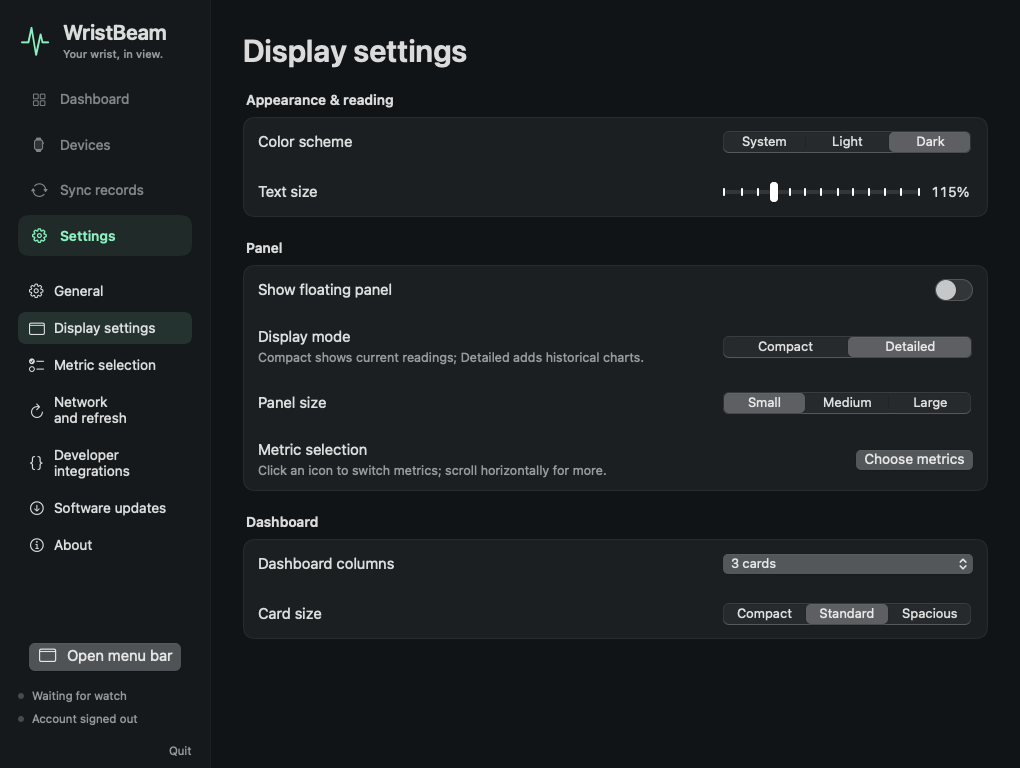
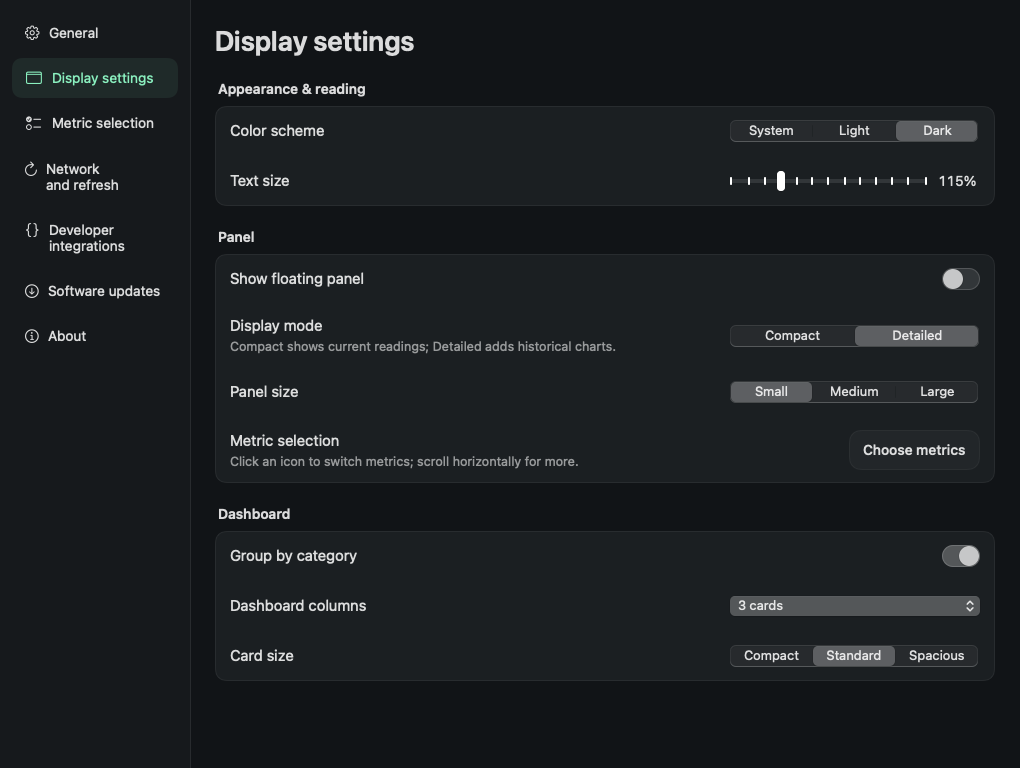
chore: prepare WristBeam 0.3.10 (#21)
* chore: prepare WristBeam 0.3.10

* docs: refresh multilingual guides and native product screenshots

---------

diff --git a/Sources/GarminBar/App/SoftwareUpdater.swift b/Sources/GarminBar/App/SoftwareUpdater.swift
@@ -24,7 +24,7 @@ final class PulseUpdater: ObservableObject {
             AppPreferences.shared.set(repository, forKey: "updateRepository")
         }
     }
-    var currentVersion: String { Bundle.main.object(forInfoDictionaryKey: "CFBundleShortVersionString") as? String ?? "0.3.9" }
+    var currentVersion: String { Bundle.main.object(forInfoDictionaryKey: "CFBundleShortVersionString") as? String ?? "0.3.10" }
     var parsedRepository: PulseRepository? { PulseRepository(repository) }
     // Local package tests exercise the production validation/install path. This
     // entry point is absent from Release builds and never changes the server.

diff --git a/docs/SHOWCASE.md b/docs/SHOWCASE.md
@@ -1,46 +1,37 @@
 # Product showcase
 
-Native views and showcase composites are generated in GitHub Actions. The macOS 15 Apple Silicon job uploads `showcase-macos15`; download that artifact to refresh the README images without a local build. The renderer covers 52 combinations, including device status, HRV and the menu popover. Only synthetic preview data enters these artifacts.
+The five READMEs use native WristBeam views with isolated synthetic data. Chinese documentation uses Chinese captures and captions; English, Japanese, Korean and Russian documentation use the English image set. No personal accounts, health records, device identifiers or activity locations enter these assets.
 
-The README uses actual native app views with isolated **WristBeam Demo** data. Its values are simulated, its preferences/storage are separate, and Bluetooth, saved account recovery and uploading are disabled. No user's health data, account identifiers, device IDs or activity locations appear in these assets.
+## 0.3.10 documentation refresh
 
-| Image | What it shows |
-| --- | --- |
-| [Hero](images/showcase-hero.png) | Native dashboard, status item and expanded menu panel |
-| [Menu](images/showcase-menu.png) | Actual icon-only menu readings and the click-to-open panel |
-| [Themes](images/showcase-themes.png) | Native light and dark dashboard captures |
-| [Settings](images/showcase-settings.png) | Grouped three-surface selection matrix |
+The current hero, menu, themes, settings and floating-panel images come from the UI changes in [PR #20](https://github.com/kongdayan/wristbeam/pull/20), application commit `2d2296fdd2960324b0acd4847613f7c3b722a4f3`. They were rendered in [GitHub Actions run 39894382413](https://github.com/kongdayan/wristbeam/actions/runs/39894382413) and copied unchanged from its `showcase-macos15` artifact. The release preparation updates version metadata separately; these images show the UI shipping in 0.3.10.
 
-The Chinese README uses a separate Chinese set: [hero](images/showcase-hero-zh.png), [menu](images/showcase-menu-zh.png), [themes](images/showcase-themes-zh.png), and [settings](images/showcase-settings-zh.png). Both captions and captured app views are Chinese; the English set remains English. Chinese native captures are [dashboard](images/raw-dashboard-zh.png), [light](images/dashboard-light-zh.png), [dark](images/dashboard-dark-zh.png), [settings](images/display-settings-zh.png), and [menu panel](images/raw-menu-popup-zh.png).
+| Image | What it shows | Chinese version |
+| --- | --- | --- |
+| [Hero](images/showcase-hero.png) | Dashboard, icon-only status item and menu panel | [中文](images/showcase-hero-zh.png) |
+| [Menu](images/showcase-menu.png) | Menu readings and click-to-open panel | [中文](images/showcase-menu-zh.png) |
+| [Themes](images/showcase-themes.png) | Light and dark dashboard | [中文](images/showcase-themes-zh.png) |
+| [Settings](images/showcase-settings.png) | Separate preferences window, appearance, text size and layout | [中文](images/showcase-settings-zh.png) |
+| [Floating panels](images/showcase-floating.png) | Compact readings and Detailed trends | [中文](images/showcase-floating-zh.png) |
 
-## Build 10 refresh
+Raw dashboard, menu, floating and display-settings captures in `docs/images/` are refreshed from the same artifact. The icon-only [status item](images/raw-menu-bar.png) remains the earlier computer-use capture; that component was not changed by this UI update. The [sharing examples](images/share-cards-en.png) and [Chinese sharing example](images/share-cards-zh.png) retain their existing synthetic exports.
 
-The dashboard, themes, settings and new [Compact / Detailed floating showcase](images/showcase-floating.png) now use build 10 production views. The [Chinese version](images/showcase-floating-zh.png) includes Chinese captions and controls; all other README languages use English assets.
+## How the images are made
 
-`scripts/test-interface-render.py` constructs the actual `AppModel` in isolated preview mode and renders the real SwiftUI views through `NSHostingView.cacheDisplay`, including native controls. It exercises 52 combinations of language, theme, floating density and font size. These are programmatic native-view renders, **not evidence of click testing**. Live computer-use verification remains separately recorded in VERIFICATION.md.
+`scripts/test-interface-render.py` constructs the real `AppModel` in isolated preview mode, disables Bluetooth/account recovery/uploads and asserts zero cloud requests. It renders production SwiftUI views through `NSHostingView.cacheDisplay`. The current suite exports 152 PNGs covering Chinese/English, light/dark, Compact/Detailed panels, device battery, HRV, activities, expanded sections, narrow windows and 100%/160% text samples.
 
-`scripts/render-floating-showcase.swift` places those unchanged PNGs on an original gradient with frames and shadows. It refreshes the hero, menu, themes, settings and floating composites. The menu status item capture remains from the earlier computer-use session. The expanded menu uses the current production view rendered in Actions, including the device battery badge. The HTML viewer below is retained for interactive capture, but the latest composites are generated by the Swift renderer.
+The same CI harness separately exercises native mouse events for disclosure headers and metric selection, plus list/detail scroll restoration. A screenshot alone does not prove interaction behavior. Local installed-client computer-use checks remain subject to tool availability; see [verification scope](../VERIFICATION.md).
 
-The settings layout and Compact / Detailed presentation were inspired by [Pulse](https://github.com/qunqin24/Pulse); WristBeam's implementation, icons and artwork are independently authored. No Pulse source or artwork is bundled.
+`scripts/render-floating-showcase.swift` arranges unchanged native captures on an original gradient, adding frames and shadows. CI renders the composites; maintainers download the artifact instead of building local demo apps. The earlier [English](showcase/index.html) and [Chinese](showcase/index.zh-CN.html) HTML layouts remain available as historical artwork sources, but the current README composites use the Swift renderer.
 
-## Capture method
+The settings layout and Compact/Detailed presentation were inspired by [Pulse](https://github.com/qunqin24/Pulse). WristBeam's implementation, icons and artwork are independently authored; no Pulse source or artwork is bundled. The human-battery and footprint glyphs are drawn in [MetricIcon.swift](../Sources/GarminBar/UI/MetricIcon.swift); other glyphs use macOS SF Symbols. Body Battery keeps its full name in panels and accessibility descriptions.
 
-Computer-use opens and operates the native demo app. The native computer-use screenshot service returned oversized Retina extents on this Mac. To keep the real UI intact, computer-use invokes the Demo's Save demo screenshot command (⌘S), which exports only its own actual AppKit hosting view at 3× resolution. Native view captures are [raw-dashboard-en.png](images/raw-dashboard-en.png), [dashboard-light.png](images/dashboard-light.png), [dashboard-dark.png](images/dashboard-dark.png) and [display-settings.png](images/display-settings.png).
+## Refresh checklist
 
-Clicking **Open menu bar** opens the real `NSPopover`. Only in Demo mode, the app exports its actual `NSStatusItem` button and hosting view at 3× resolution using AppKit view rendering: [raw-menu-bar.png](images/raw-menu-bar.png), [raw-menu-popup.png](images/raw-menu-popup.png). This avoids global desktop capture and the focus change that closes transient popovers in the computer-use tool. These are actual native components, not generated interface illustrations.
+1. Run CI for the intended UI revision; download `showcase-macos15` and `native-interface-macos15`.
+2. Inspect both language sets, including long pages, large text, menu and floating panels.
+3. Copy the intended PNGs into `docs/images/`; preserve captures without painting over controls or values.
+4. Update the source commit/run above and all five README descriptions; check image links and language selection.
+5. Keep the app icon, original status-item capture and unchanged sharing exports unless those components need a new capture.
 
-The human-battery and footprint glyphs are original code-drawn vectors in [MetricIcon.swift](../Sources/GarminBar/UI/MetricIcon.swift). Other glyphs use macOS SF Symbols. Body Battery keeps its full name in panels and accessibility descriptions; no BB abbreviation is used.
-
-[HTML/CSS artwork](showcase/index.html) places the unmodified native PNGs on a background with rounded frames and shadows. [The local WKWebView viewer](../scripts/showcase-viewer.swift) renders four scenes; keys 1–4 switch scenes. Computer-use operates the resulting viewer and its “Save showcase image” command. The viewer exports its actual WKWebView rectangle through WebKit snapshot rendering, avoiding an incorrect Retina window extent in the native computer-use screenshot service. No AI-generated controls, values or fake product UI are added. Rounded shells and shadows are decorative layout around unchanged captures.
-
-[The Chinese layout](showcase/index.zh-CN.html) uses the same 1280 × 860 canvas. In the viewer, ⌘Z selects Chinese and ⌘E selects English; ⌘S exports the selected scene with a language-specific filename. Native display scale determines PNG pixel dimensions; the Chinese set was captured at 2560 × 1720. The first-use capture comes from a separately stored onboarding Demo with Bluetooth, account restoration and uploading disabled.
-
-## Background brief
-
-The original background brief used the former working name Garmin Pulse; the name is updated here for readability. No brand or product text is rendered into the backdrop.
-
-Only [the abstract backdrop](images/showcase-background.png) was generated with the built-in image generation tool. It was not used to edit the app screenshots.
-
-> Use case: ads-marketing. Background plate for premium independent macOS WristBeam product showcase. Generate only abstract backdrop, no device/interface/text/logos. Wide 16:9, quiet pearl/off-white center, subtle translucent mint-green and warm amber outer halos, frosted glass and very subtle film grain, restrained light, clean negative space for real screenshots. Avoid busy patterns, diagrams, simulated UI, hard borders, stock photos, neon and watermarks.
-
-The background is reused consistently across four native HTML/CSS scenes. The [app icon](images/app-icon.png) comes from the project's own vector drawing script. Project-authored artwork follows [the MIT license](../LICENSE); Garmin and platform marks remain their owners' marks.
+Only the historical [abstract backdrop](images/showcase-background.png) was made with image generation; product screenshots were not generated or retouched. The [app icon](images/app-icon.png) comes from the project's own vector drawing script. Project-authored artwork follows the [MIT license](../LICENSE).

diff --git a/README.ru.md b/README.ru.md
@@ -21,6 +21,7 @@
 - **Дайте телефону выходной.** Передавайте файлы тренировок и здоровья с поддерживаемых часов Garmin через Mac в Garmin Connect China или Global.
 - **Ваш заряд — в строке меню.** Пульс, Body Battery, стресс, шаги и другие показатели доступны в строке меню, плавающей панели и на графиках за день.
 - **Пусть ИИ узнает, как вы себя чувствуете.** Подключите синхронизированные показатели к ИИ-ассистенту через MCP и спросите: «Как я спал прошлой ночью?» Для собственных инструментов есть HTTP/HTTPS API, Python SDK и вебхуки.
+- **Меняйте циферблат с Mac.** Ищите циферблаты Connect IQ по имени или ключевому слову, сохраняйте официальные пакеты и устанавливайте их по Bluetooth. Редактируйте поддерживаемые настройки с повторным чтением после сохранения.
 
 Ваш ИИ уже считает токены. Теперь он может поинтересоваться и вашим запасом сил.
 
@@ -29,6 +30,8 @@
 ![WristBeam](docs/images/showcase-hero.png)
 
 [Скачать](https://github.com/kongdayan/wristbeam/releases/latest) · [Ошибки и отчёты об устройствах](https://github.com/kongdayan/wristbeam/issues) · [Участие](CONTRIBUTING.md) · [Изменения](CHANGELOG.md)
+
+**Новое в 0.3.10:** более удобные кнопки, раскрытие разделов нажатием на всю строку, улучшенная компоновка с крупным текстом и страницы без видимых полос прокрутки. [Изменения](CHANGELOG.md#0310--2026-10-23).
 
 ## Интерфейс
 
@@ -44,6 +47,9 @@
 
 ## Возможности
 
+- **Настройки в отдельном окне.** Внешний вид, выбор показателей, обновление данных, интеграции и обновления приложения собраны по разделам. Заголовки реагируют на нажатие по всей строке; обычная прокрутка работает без видимых полос.
+- **Облако по желанию.** Получайте данные часов без аккаунта и отключайте все обращения к облаку Garmin. Экспортируйте локальные FIT＋CSV или загрузите файлы в облако позже. [Локальный режим](docs/SETUP.md).
+- **Тренировки для вас и вашего AI.** Открывайте статистику и графики из списка занятий, экспортируйте JSON／TCX／GPX／исходные файлы и запрашивайте сохранённые тренировки через MCP. Доступно обновление сводок по расписанию. [API](docs/developer/API.md#activity-library).
 - Компактные объёмные карточки с временем обновления рядом с заголовком. Настройка сетки и основных показателей в одной панели; вся панель, выбранные карточки или одно значение экспортируются в светлом или тёмном оформлении для копирования, сохранения и системного обмена.
 - Независимый выбор показателей для строки меню, панели и дашборда; группы, поиск, перетаскивание, размер текста и расположение.
 - Суточные кривые, интервальные столбцы, выбор даты и времени, значения под курсором и исходные записи. Пропуски остаются пустыми.
@@ -77,6 +83,7 @@
 | Батарея часов | Garmin Bluetooth | Значок и процент заряда рядом с состоянием устройства; уведомления и периодическое обновление |
 | Калории, этажи, минуты интенсивности | Поля часов／облака | Итоги дня, некоторые интервалы |
 | Пульс в покое, длительность сна, сводки восстановления | Суточная облачная сводка | Итоги и связанные графики |
+| Погода на часах | Open-Meteo или облачный аккаунт устройства | Текущая погода, почасовой и дневной прогноз передаются на часы. [Настройка](docs/developer/WEATHER.md) |
 | Солнечная интенсивность | Достоверные поминутные записи облака | Кривая от 0 до 24 часов |
 | Длительность освещения／солнечной зарядки | Оценка по достоверным минутам | Явно обозначенная оценка |
 | FIT активности и здоровья | Исходные файлы часов | Хранение на Mac, отправка в облако |
@@ -90,6 +97,8 @@
 | Apple Silicon | [arm64](https://github.com/kongdayan/wristbeam/releases/latest/download/WristBeam-macOS-arm64.zip) |
 | Intel | [x86_64](https://github.com/kongdayan/wristbeam/releases/latest/download/WristBeam-macOS-x86_64.zip) |
 | Обе архитектуры | [Universal](https://github.com/kongdayan/wristbeam/releases/latest/download/WristBeam-macOS-universal.zip) |
+
+Если приложение уже установлено: **Settings → Software updates → Check for updates**. Облачный аккаунт необязателен; для локального использования вход не нужен.
 
 Нужна macOS 13+. Распакуйте приложение и перенесите в доступную для записи папку Applications. В разделе «Устройства → Подключение» подготовьте часы с отключённой трансляцией пульса, затем нажмите кнопку подключения и разрешите Bluetooth. Выберите China／Global в аккаунте устройства, войдите на официальной странице Garmin и выберите ручную или автоматическую загрузку в истории синхронизации. Автоподключение при запуске выключено по умолчанию; его можно включить после сопряжения.
 

diff --git a/docs/SETUP.md b/docs/SETUP.md
@@ -5,9 +5,9 @@
 1. 打开应用，进入 **设备 → 连接**。打开软件和浏览设备页都不会申请蓝牙或扫描手表。
 2. 首次配对：手表长按 MENU → 手机 → 配对手机，关闭心率广播；手机占用连接时，暂时关闭手机蓝牙。点击 **允许蓝牙并查找手表**，在 macOS 提示中允许访问，再选择手表、核对配对码。已保存的手表可直接点击 **连接已配对手表**，无需每次忘记或重新配对。
 3. 允许蓝牙后，分别检查蓝牙连接、佳明数据通道、实时读数和文件通道。单独显示“已连接”不能证明原始文件同步已经就绪。没有数据时展开 **连接不上 / 没有数据**。
-4. 到 **设备账号** 选择手表绑定的中国或国际账户区域，在佳明官方页面登录。同一区域、同一账户才能核对文件归属；关联设备应与你的手表一致。
+4. 云账号可选。仅本地使用无需登录；需要云端记录或上传时，到 **设备 → 设备账号** 开启云同步，选择中国或国际区域，再在佳明官方页面登录。账户应与你的手表绑定账户一致。
 5. 到 **同步记录** 选择手动或自动上传。实时读数留在本机，云端接收手表生成的原始运动与健康 FIT。新用户默认手动同步；旧版已保存的选择以及已配对用户原先的自动同步默认值保留。
-6. 在 **显示设置** 分别选健康看板、浮窗和菜单栏的指标，调整字体、日夜主题和刷新。新用户默认不弹出空浮窗，按需开启。
+6. 打开独立 **设置** 窗口：在 **显示设置** 调整字体、主题和布局，在 **指标选择** 分别配置看板、浮窗和菜单栏，在 **网络与刷新** 调整刷新频率。新用户默认不弹出空浮窗，按需开启。折叠区的标题整行都可点击；长页面隐藏滚动条，仍支持正常滚动。
 
 **拒绝蓝牙**：在系统设置 → 隐私与安全性 → 蓝牙允许 WristBeam，再回到连接页。受到系统策略限制时需由设备管理员处理；设备账号与 FIT 导入仍可使用。临时签名的新构建可能需要重新允许访问，应用只在主动连接时请求。
 
@@ -33,7 +33,7 @@ In **Sync records**, **Automatically receive watch files** downloads original FI
 
 Cloud backfill uses original watch-generated FIT files, not synthesized FIT made from live readings. CSV is for personal use and analysis; it cannot recreate Garmin's historical cloud-only records. Folder monitoring applies only to the selected directory and can be stopped here.
 
-Connecting at launch is a separate opt-in and requires previously granted access plus a saved watch. Reconnection restores only a connection you started; manual disconnect stops retries. Closing the window keeps the menu bar app running, while quitting or Mac sleep pauses immediate syncing. Configure the floating panel, display metrics, type size, themes and refresh in **Display settings**.
+Connecting at launch is a separate opt-in and requires previously granted access plus a saved watch. Reconnection restores only a connection you started; manual disconnect stops retries. Closing the window keeps the menu bar app running, while quitting or Mac sleep pauses immediate syncing. Open the separate **Settings** window: use **Display settings** for panels, text size, themes and layout; **Metric selection** for dashboard/panel/menu metrics; and **Network and refresh** for refresh intervals. Click anywhere on a section header to expand it. Long pages scroll normally with their indicators hidden.
 
 If Bluetooth is denied, enable WristBeam in System Settings → Privacy & Security → Bluetooth and retry. A system restriction needs the administrator's help. An ad hoc build may need renewed system authorization after an update. Updates ask for confirmation before download and wait for active transfers to finish.
 

diff --git a/README.md b/README.md
@@ -31,6 +31,8 @@ Your AI can already count tokens. Now it can ask how *you're* doing.
 
 [Download](https://github.com/kongdayan/wristbeam/releases/latest) · [Issues & device reports](https://github.com/kongdayan/wristbeam/issues) · [Contribute](CONTRIBUTING.md) · [Changelog](CHANGELOG.md)
 
+**New in 0.3.10:** larger click targets, full-row expandable sections, better large-text layouts and clean, scrollbar-free pages. [Release notes](CHANGELOG.md#0310--2026-10-23).
+
 ## A closer look
 
 ![Menu bar and click-to-open panel](docs/images/showcase-menu.png)
@@ -45,6 +47,7 @@ Real app UI with isolated demo data. [Original captures and artwork notes](docs/
 
 ## Features
 
+- **Settings that stay out of the way.** A separate preferences window groups appearance, metric selection, refresh, developer integrations and updates. Click an entire section header to expand it; scroll normally without visible scrollbars.
 - **Keep it on your Mac.** Watch data works without a cloud account. Pause all Garmin cloud access, keep local files, then export FIT + CSV or upload later. [Local mode](docs/SETUP.md).
 - **Let your AI remember your workouts.** Browse the Activities sidebar, open a workout to load its statistics and charts, export JSON / TCX / GPX / original files, and query cached workouts over MCP. Optional scheduled summary refresh. [Activity API](docs/developer/API.md#activity-library).
 - Compact dimensional cards with timestamps beside the title. Customize layout and essentials in one panel; share the dashboard, selected cards or a single value as a framed image in light or dark, with copy, save and native sharing.
@@ -96,6 +99,8 @@ The catalog has **60 health metrics and one device-status field**. Only metrics 
 | Apple Silicon | [arm64](https://github.com/kongdayan/wristbeam/releases/latest/download/WristBeam-macOS-arm64.zip) |
 | Intel | [x86_64](https://github.com/kongdayan/wristbeam/releases/latest/download/WristBeam-macOS-x86_64.zip) |
 | Either architecture | [Universal](https://github.com/kongdayan/wristbeam/releases/latest/download/WristBeam-macOS-universal.zip) |
+
+Existing users: **Settings → Software updates → Check for updates**. Cloud login is optional; connect an account only when you want Garmin cloud access.
 
 Requires macOS 13+. Extract and move the app to a writable Applications folder. Open Devices → Connection, prepare the watch with heart-rate broadcast off, then click a connection button to allow Bluetooth. Choose China/Global in Device account and sign in on Garmin's official page; choose manual or automatic uploads in Sync records. Connecting at launch is off by default and can be enabled after pairing.
 

diff --git a/README.cn.md b/README.cn.md
@@ -32,6 +32,8 @@ Mac 有电量条，人也该有。
 
 [下载](https://github.com/kongdayan/wristbeam/releases/latest) · [反馈与设备支持](https://github.com/kongdayan/wristbeam/issues) · [参与贡献](CONTRIBUTING.md) · [版本记录](CHANGELOG.md)
 
+**0.3.10 更新：**按钮更好点，折叠标题整行可展开，大字号布局更舒适，页面统一隐藏滚动条。[版本说明](CHANGELOG.md#0310--2026-10-23)。
+
 ## 展示
 
 ![菜单栏与点击后的弹窗](docs/images/showcase-menu-zh.png)
@@ -46,6 +48,7 @@ Mac 有电量条，人也该有。
 
 ## 功能
 
+- **设置集中，操作省心。** 独立设置窗口按外观、指标选择、刷新、开发者集成和软件更新分组；点击折叠标题整行即可展开，长页面保留正常滚动。
 - 在菜单栏、浮窗和看板独立选择指标，整组选取、搜索、拖动排序，调整字体与布局。
 - **云不是必选项。** 无需云账号也能接收手表数据；可停止全部佳明云访问，在本机暂存，随时导出 FIT + CSV 或以后补传。[本地模式](docs/SETUP.md)。
 - **让 AI 知道你最近练了什么。** 在独立运动记录页浏览云端历史，打开即加载统计和图表，支持导出 JSON、TCX／GPX／原始文件，通过 MCP 查询本地运动库；可设置摘要自动刷新频率。[运动接口](docs/developer/API.md#activity-library)。
@@ -98,6 +101,8 @@ Mac 有电量条，人也该有。
 | Apple Silicon | [arm64](https://github.com/kongdayan/wristbeam/releases/latest/download/WristBeam-macOS-arm64.zip) |
 | Intel | [x86_64](https://github.com/kongdayan/wristbeam/releases/latest/download/WristBeam-macOS-x86_64.zip) |
 | 两种架构 | [Universal](https://github.com/kongdayan/wristbeam/releases/latest/download/WristBeam-macOS-universal.zip) |
+
+已安装用户：**设置 → 软件更新 → 检查更新**。云账号是可选项；仅本地使用时，无需登录佳明。
 
 要求 macOS 13+。解压，将应用放入可写的 Applications 文件夹。打开“设备 → 连接”，按引导准备手表，点击连接按钮后允许蓝牙访问；保持心率广播关闭。到“设备账号”选择中国／国际区域，在佳明官方页面登录，再到“同步记录”选择手动或自动同步。启动自动连接默认关闭，可在首次配对后主动开启。
 

diff --git a/CHANGELOG.md b/CHANGELOG.md
@@ -1,5 +1,15 @@
 # Changelog
 
+## 0.3.10 — 2026-10-23
+
+- Expand Sync settings, Files and uploads, and other sections by clicking anywhere on their header. Keep controls inside expanded sections independent, with consistent borders and hover/focus feedback.
+- Align Settings and Open menu bar actions, enlarge utility buttons, and make metric-selection cells easier to click. Scale checkboxes with text size.
+- Keep preference controls aligned beside wrapping descriptions and adapt developer actions to narrow windows and larger text. Simplify expanded connection and sync settings.
+- Hide scroll indicators across pages, preferences, menu popovers, sharing, Connect IQ, raw metric tables and embedded web pages while preserving scrolling and saved positions.
+- Validate native disclosure/selection click targets and scrolling, and include native before/after screenshots in the UI review.
+- Refresh all five README translations, native showcase images and setup navigation; bring the Japanese, Korean and Russian feature lists up to date.
+- Update the pinned checkout and artifact-download GitHub Actions.
+
 ## 0.3.9 — 2026-10-21
 
 - Add Connect IQ watch-face management on Mac: text search, store details, package download/install, installed apps and device settings. Updates and reinstalls transfer the package even when the app UUID is already present. Chinese and English interface text follows the app language.
